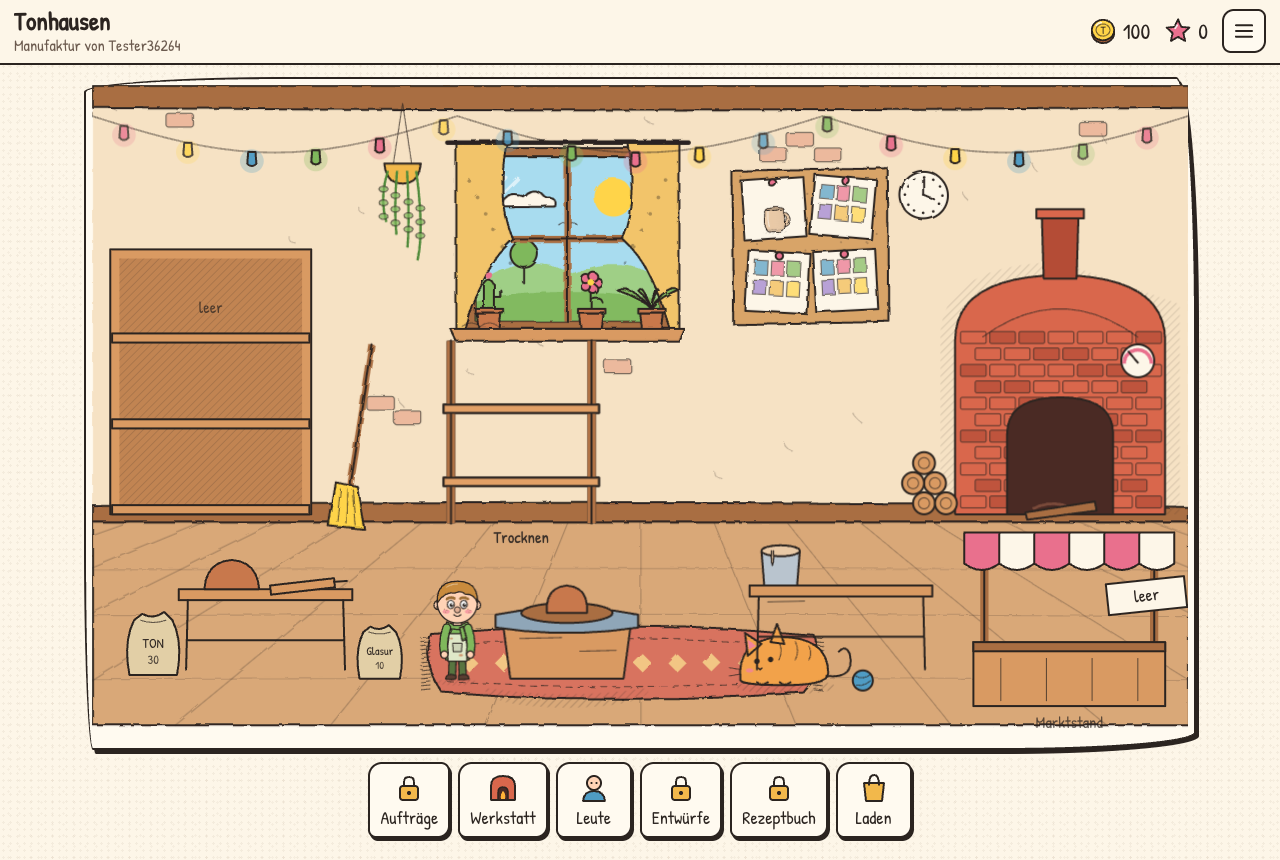
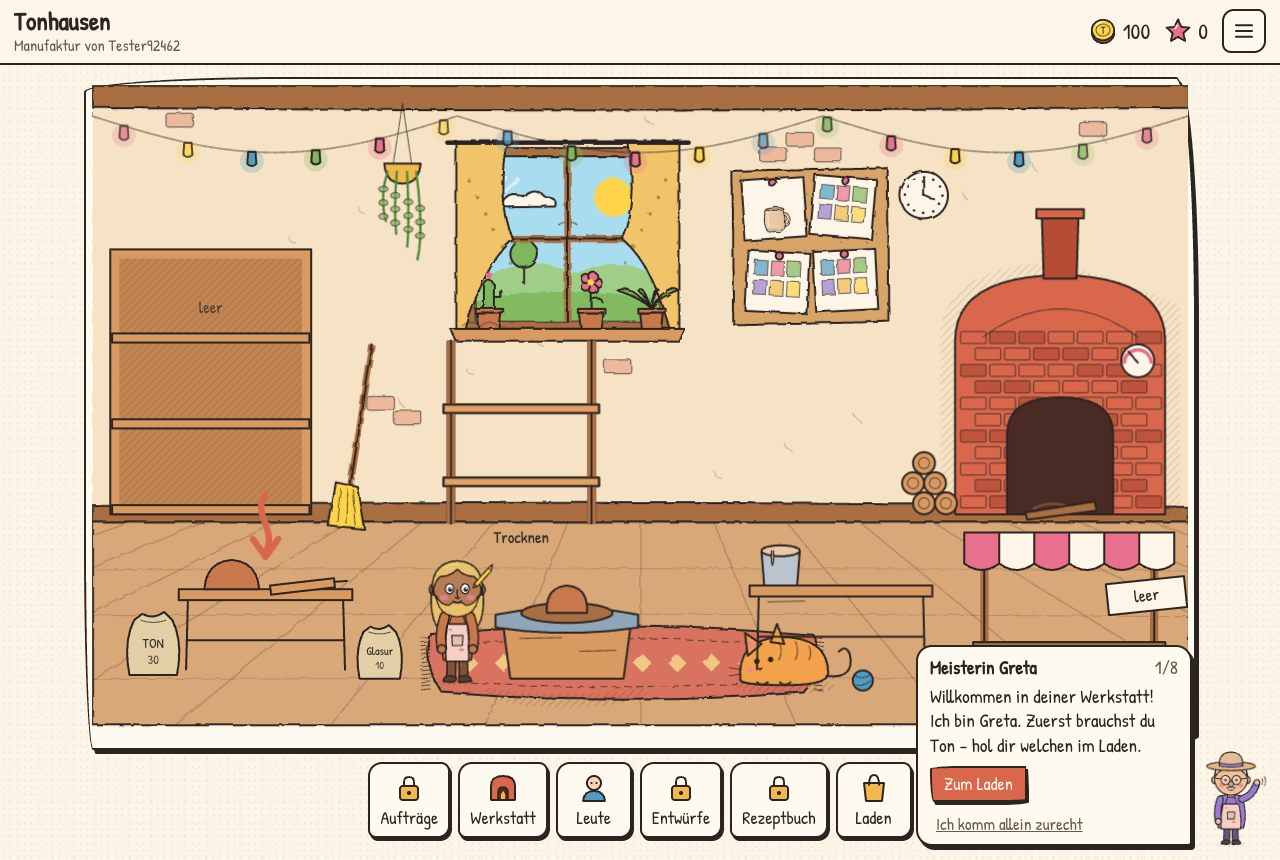
feat(client): onboarding mentor, away summary, unlock celebrations

diff --git a/src/client/panels/Onboarding.tsx b/src/client/panels/Onboarding.tsx
@@ -1,0 +1,55 @@
+import { makeCharacter, type CharacterLook } from '../../shared/character';
+import type { GameState, StationKind } from '../../shared/types';
+import { Character } from '../art/character/Character';
+import { Button } from '../ui/Button';
+import type { PanelId } from './PanelHost';
+
+export const GRETA: CharacterLook = { ...makeCharacter(1902), quirk: 'bigHat', eyes: 'glasses', hairStyle: 'bun', hairColor: '#d9d4cc', facial: 'freckles', mouth: 'grin', body: 'round', heightMul: 0.95, outfit: '#9a7ccf' };
+
+type Step = { text: string; done: (s: GameState) => boolean; target?: StationKind; panel?: PanelId; panelArg?: (s: GameState) => string | undefined; button?: string };
+
+const anyBatchAt = (s: GameState, stages: string[]) => s.batches.some((b) => stages.includes(b.stage));
+
+export const ONBOARDING: Step[] = [
+  { text: 'Willkommen in deiner Werkstatt! Ich bin Greta. Zuerst brauchst du Ton – hol dir welchen im Laden.', target: 'prepBench', panel: 'shop', button: 'Zum Laden',
+    done: (s) => (s.materials.ton ?? 0) > 30 || s.stats.made > 0 || s.batches.length > 0 },
+  { text: 'Jetzt an die Scheibe! Tipp auf die Töpferscheibe und wähle deinen ersten Becher.', target: 'wheel', panel: 'station', panelArg: (s) => s.stations.find((x) => x.kind === 'wheel')?.id, button: 'Zur Scheibe',
+    done: (s) => s.batches.length > 0 || s.stats.made > 0 },
+  { text: 'Wunderbar! Nach dem Trocknen geht’s ab in den Ofen. Schau ruhig zu, wie es glüht.', target: 'kiln',
+    done: (s) => anyBatchAt(s, ['bisque', 'glaze', 'glazeFire']) || s.stats.made > 0 },
+  { text: 'Jetzt bekommen deine Stücke Farbe am Glasurtisch – und dann noch einmal in den Ofen.', target: 'glazeTable',
+    done: (s) => anyBatchAt(s, ['glazeFire']) || s.stats.made > 0 },
+  { text: 'Fertig! Dein Marktstand verkauft die Becher ganz von allein – auch wenn du nicht da bist.', target: 'marketStall',
+    done: (s) => s.stats.sold > 0 },
+  { text: 'Die Leute im Dorf haben von dir gehört! Schau ins Auftragsbrett und liefere deinen ersten Auftrag.', panel: 'orders', button: 'Aufträge ansehen',
+    done: (s) => s.stats.ordersDone > 0 },
+  { text: 'Jetzt wird’s persönlich: Gestalte im Entwurfsstudio deinen ganz eigenen Becher.', panel: 'studio', button: 'Zum Studio',
+    done: (s) => s.stats.designsSaved > 0 },
+  { text: 'Zum Schluss ein Geheimnis: Probier eine eigene Glasur! Brenne eine Probekachel im Studio.', panel: 'studio', panelArg: () => 'glaze', button: 'Glasurversuch',
+    done: (s) => s.stats.experiments > 0 },
+];
+
+/** Index of the first unfinished step (ONBOARDING.length when done). */
+export function onboardingStep(s: GameState): number {
+  const i = ONBOARDING.findIndex((st) => !st.done(s));
+  return i < 0 ? ONBOARDING.length : i;
+}
+
+export function OnboardingCard({ s, onOpen, onSkip }: { s: GameState; onOpen: (id: PanelId, arg?: string) => void; onSkip: () => void }) {
+  const i = onboardingStep(s);
+  if (i >= ONBOARDING.length) return null;
+  const step = ONBOARDING[i];
+  return (
+    <aside class="mentor" aria-live="polite">
+      <Character look={GRETA} pose={i === 0 ? 'wave' : 'idle'} seed={7} size={70} wobble={false} />
+      <div class="mentor-bubble">
+        <div class="mentor-head"><strong>Meisterin Greta</strong><span class="muted">{i + 1}/{ONBOARDING.length}</span></div>
+        <p>{step.text}</p>
+        <div class="row">
+          {step.panel && <Button small variant="primary" onClick={() => onOpen(step.panel!, step.panelArg?.(s))}>{step.button}</Button>}
+          <button class="link" onClick={onSkip}>Ich komm allein zurecht</button>
+        </div>
+      </div>
+    </aside>
+  );
+}

diff --git a/src/client/screens/GameScreen.tsx b/src/client/screens/GameScreen.tsx
@@ -1,7 +1,7 @@
 import { useState } from 'preact/hooks';
 import { WorkshopScene } from '../art/workshop/WorkshopScene';
 import { api } from '../api';
-import { me, now, view } from '../store';
+import { dispatch, me, now, serverState, view } from '../store';
 import { T } from '../strings';
 import { Counter } from '../ui/Counter';
 import { Icon } from '../ui/Icons';
@@ -10,6 +10,9 @@ import { Sheet } from '../ui/Sheet';
 import { Button } from '../ui/Button';
 import { inviteLink } from './AuthScreen';
 import { PanelHost, type PanelId, panelUnlock } from '../panels/PanelHost';
+import { AwaySummary } from '../panels/AwaySummary';
+import { Celebration } from '../panels/Celebration';
+import { ONBOARDING, OnboardingCard, onboardingStep } from '../panels/Onboarding';
 import './screens.css';
 
 const TOOLS: { id: PanelId; icon: Parameters<typeof Icon>[0]['name'] }[] = [
@@ -21,7 +24,12 @@ export function GameScreen({ onLogout }: { onLogout: () => void }) {
   const s = view.value;
   const [panel, setPanel] = useState<{ id: PanelId; arg?: string } | null>(initialPanel());
   const [menu, setMenu] = useState(false);
+  const [awayAtLoad, setAwayAtLoad] = useState(() => serverState.value?.away ?? null);
+  const [skipTutorial, setSkipTutorial] = useState(() => { try { return localStorage.getItem('mf_skip_tutorial') === '1'; } catch { return false; } });
   if (!s) return <div class="loading">{T.loading}</div>;
+  const pendingMilestone = s.milestonesDone.find((m) => !s.milestonesAcked.includes(m));
+  const step = onboardingStep(s);
+  const highlight = !skipTutorial && step < ONBOARDING.length && !panel ? ONBOARDING[step].target : undefined;
   const open = (id: PanelId, arg?: string) => setPanel({ id, arg });
   return (
     <div class="game">
@@ -36,7 +44,7 @@ export function GameScreen({ onLogout }: { onLogout: () => void }) {
       </header>
       <div class="scene-frame">
         <Paper seed={21}>
-          <WorkshopScene state={s} now={now.value} onStation={(id) => open('station', id)} onWorker={(id) => open('people', id)} />
+          <WorkshopScene state={s} now={now.value} onStation={(id) => open('station', id)} onWorker={(id) => open('people', id)} highlight={highlight} />
         </Paper>
       </div>
       <nav class="toolbar" aria-label="Werkzeuge">
@@ -54,6 +62,11 @@ export function GameScreen({ onLogout }: { onLogout: () => void }) {
         })}
       </nav>
       {panel && <PanelHost id={panel.id} arg={panel.arg} onClose={() => setPanel(null)} onOpen={open} />}
+      {!skipTutorial && !panel && !awayAtLoad && !pendingMilestone && (
+        <OnboardingCard s={s} onOpen={open} onSkip={() => { try { localStorage.setItem('mf_skip_tutorial', '1'); } catch { /* ignore */ } setSkipTutorial(true); }} />
+      )}
+      {awayAtLoad && <AwaySummary away={awayAtLoad} boosted={now.value < s.boostUntil} now={s.lastTick} onClose={() => { setAwayAtLoad(null); if (s.away) dispatch({ type: 'ackAway' }); }} />}
+      {!awayAtLoad && pendingMilestone && <Celebration milestoneId={pendingMilestone} onClose={() => dispatch({ type: 'ackMilestone', id: pendingMilestone })} />}
       {menu && (
         <Sheet title={T.village} onClose={() => setMenu(false)}>
           <p>Einladungscode für <strong>{me.value?.villageName}</strong>:</p>

diff --git a/src/client/art/workshop/WorkshopScene.tsx b/src/client/art/workshop/WorkshopScene.tsx
@@ -31,7 +31,7 @@ const WORKER_SPOT: Partial<Record<StationKind, { dx: number; dy: number; behind:
 };
 const IDLE_SPOTS = [{ x: 640, y: 712 }, { x: 900, y: 712 }, { x: 340, y: 712 }];
 
-type Props = { state: GameState; now: number; onStation: (id: string) => void; onWorker: (id: string) => void };
+type Props = { state: GameState; now: number; onStation: (id: string) => void; onWorker: (id: string) => void; highlight?: StationKind };
 
 function Person({ w, x, y, pose, onWorker, i }: { w: Worker; x: number; y: number; pose: Pose; onWorker: (id: string) => void; i: number }) {
   const size = 100;
@@ -43,7 +43,7 @@ function Person({ w, x, y, pose, onWorker, i }: { w: Worker; x: number; y: numbe
   );
 }
 
-export function WorkshopScene({ state, now, onStation, onWorker }: Props) {
+export function WorkshopScene({ state, now, onStation, onWorker, highlight }: Props) {
   const room2 = state.unlocks.includes('room2');
   const width = room2 ? 1800 : 1200;
   const pins = state.designs.slice(-4).reverse().map((design) => ({ design, glaze: state.glazes.find((g) => g.id === design.glazeId) }));
@@ -76,6 +76,19 @@ export function WorkshopScene({ state, now, onStation, onWorker }: Props) {
           );
         })}
         {idle.map((w, i) => <Person w={w} i={i} x={IDLE_SPOTS[i % 3].x + Math.floor(i / 3) * 40} y={IDLE_SPOTS[i % 3].y} pose="sleep" onWorker={onWorker} />)}
+        {highlight && (() => {
+          const st = state.stations.find((x) => x.kind === highlight);
+          if (!st) return null;
+          const p = SLOTS[st.slot];
+          const top = { kiln: 230, shelf: 300, dryingRack: 220, marketStall: 220, wheel: 190, prepBench: 120, glazeTable: 120 }[highlight];
+          const x = p.x, y = p.y - top;
+          return (
+            <g class="hint-arrow">
+              <path d={`M${x} ${y - 70} C${x - 16} ${y - 50} ${x + 14} ${y - 30} ${x} ${y - 8}`} fill="none" stroke="var(--kiln)" stroke-width="7" stroke-linecap="round" />
+              <path d={`M${x - 14} ${y - 22} L${x} ${y - 2} L${x + 14} ${y - 22}`} fill="none" stroke="var(--kiln)" stroke-width="7" stroke-linecap="round" stroke-linejoin="round" />
+            </g>
+          );
+        })()}
         {now < state.boostUntil && (
           <g class="boost-banner">
             <rect x={width / 2 - 170} y="34" width="340" height="44" rx="10" fill="var(--sun)" stroke="var(--line)" stroke-width="2.2" />

diff --git a/src/client/panels/panels.css b/src/client/panels/panels.css
@@ -60,3 +60,22 @@ select.pick { border: 2px solid var(--line); border-radius: 10px; padding: 6px 8
   .sheet:has(.studio) { width: 760px; }
   .studio { grid-template-columns: 300px 1fr; }
 }
+.mentor { position: fixed; right: 14px; bottom: 14px; z-index: 35; display: flex; align-items: flex-end; gap: 4px; max-width: min(350px, calc(100vw - 28px)); flex-direction: row-reverse; animation: pop-in .4s ease-out; }
+.mentor-bubble { background: var(--card); border: 2.2px solid var(--line); box-shadow: var(--shadow); border-radius: 16px 16px 4px 16px; padding: 8px 12px; }
+.mentor-bubble p { margin: 4px 0 8px; }
+.mentor-head { display: flex; justify-content: space-between; gap: 8px; }
+.link { background: none; border: none; text-decoration: underline; cursor: pointer; color: var(--ink-soft); font-size: .9em; }
+@media (max-width: 899px) { .mentor { bottom: 86px; left: 8px; right: 8px; } .mentor-bubble { font-size: .92em; } }
+.modal-backdrop { position: fixed; inset: 0; z-index: 70; background: rgba(43,36,32,.35); display: grid; place-items: center; padding: 16px; animation: fade .2s; }
+.modal-card { width: min(440px, 100%); animation: pop-in .45s ease-out; }
+.away-list { list-style: none; padding: 0; margin: 10px 0; font-size: 1.1em; }
+.away-list li { margin: 6px 0; }
+.inline-icon svg { width: 22px; height: 22px; vertical-align: middle; }
+.boost-note { background: var(--sun); border: 2px solid var(--line); border-radius: 10px; padding: 6px 10px; }
+.celebrate { text-align: center; }
+.kicker { font-size: 1.4em; color: var(--kiln); margin: 0; transform: rotate(-3deg); }
+.unlock-line { background: #fff; border: 2px dashed rgba(43,36,32,.3); border-radius: 12px; padding: 8px; margin: 8px 0 14px; }
+.confetti { position: fixed; inset: 0; pointer-events: none; overflow: hidden; }
+.confetti i { position: absolute; top: -20px; width: 10px; height: 8px; border-radius: 40% 60% 50% 50%; border: 1.4px solid var(--line); animation: crumb 2.4s ease-in forwards; }
+@keyframes crumb { to { transform: translateY(105vh) rotate(540deg); } }
+.scene .hint-arrow { animation: bob 0.9s ease-in-out infinite; pointer-events: none; }

diff --git a/test/client/onboarding.test.tsx b/test/client/onboarding.test.tsx
@@ -1,0 +1,38 @@
+import { render } from 'preact-render-to-string';
+import { describe, expect, it } from 'vitest';
+import { AwaySummary } from '../../src/client/panels/AwaySummary';
+import { onboardingStep, ONBOARDING } from '../../src/client/panels/Onboarding';
+import { applyAction } from '../../src/shared/actions';
+import { newGame } from '../../src/shared/state';
+
+const T0 = 1_800_000_000_000;
+
+describe('onboarding', () => {
+  it('moves from step 1 to step 2 after buying clay', () => {
+    const s = newGame('p', 1, T0);
+    expect(onboardingStep(s)).toBe(0);
+    const r = applyAction(s, { type: 'buyMaterial', material: 'ton', amount: 10 }, T0 + 1);
+    expect(r.ok && onboardingStep(r.state)).toBe(1);
+  });
+  it('has eight steps, all in German', () => {
+    expect(ONBOARDING).toHaveLength(8);
+    for (const st of ONBOARDING) expect(st.text.length).toBeGreaterThan(15);
+  });
+  it('is finished once everything has been tried', () => {
+    const s = newGame('p', 1, T0);
+    Object.assign(s.stats, { made: 6, sold: 1, ordersDone: 1, designsSaved: 1, experiments: 1 });
+    s.materials.ton = 40;
+    expect(onboardingStep(s)).toBe(ONBOARDING.length);
+  });
+});
+
+describe('away summary', () => {
+  it('renders what happened while away and the boost line', () => {
+    const html = render(<AwaySummary away={{ since: T0, made: 42, sold: 30, talerEarned: 123.5, discoveries: [] }} boosted onClose={() => {}} />);
+    expect(html).toContain('Während du weg warst');
+    expect(html).toContain('42');
+    expect(html).toContain('30');
+    expect(html).toContain('123');
+    expect(html).toContain('doppeltes Tempo');
+  });
+});

diff --git a/src/client/panels/AwaySummary.tsx b/src/client/panels/AwaySummary.tsx
@@ -1,0 +1,32 @@
+import type { AwayLog } from '../../shared/types';
+import { EFFECTS } from '../../shared/content';
+import { Button } from '../ui/Button';
+import { CoinIcon } from '../ui/Counter';
+import { Paper } from '../ui/Paper';
+import { GRETA } from './Onboarding';
+import { Character } from '../art/character/Character';
+import { formatDuration } from './logic';
+
+export function AwaySummary({ away, boosted, onClose, now }: { away: AwayLog; boosted: boolean; onClose: () => void; now?: number }) {
+  return (
+    <div class="modal-backdrop">
+      <Paper tape seed={31} class="modal-card">
+        <div class="card-row">
+          <Character look={GRETA} pose="wave" seed={3} size={64} wobble={false} />
+          <div class="grow">
+            <h2>Während du weg warst …</h2>
+            {now !== undefined && <p class="muted">({formatDuration(now - away.since)})</p>}
+          </div>
+        </div>
+        <ul class="away-list">
+          <li>🏺 <strong>{away.made}</strong> Stücke sind fertig geworden</li>
+          <li>🛒 <strong>{away.sold}</strong> Stücke hat der Marktstand verkauft</li>
+          <li><span class="inline-icon"><CoinIcon /></span> <strong>{Math.round(away.talerEarned)}</strong> Taler verdient</li>
+          {away.discoveries.map((d) => <li>✦ Entdeckt: {EFFECTS[d]?.name ?? d}</li>)}
+        </ul>
+        {boosted && <p class="boost-note">Willkommen zurück – doppeltes Tempo für 30 Minuten!</p>}
+        <Button variant="primary" onClick={onClose}>Weiter töpfern</Button>
+      </Paper>
+    </div>
+  );
+}

diff --git a/src/client/panels/Celebration.tsx b/src/client/panels/Celebration.tsx
@@ -1,0 +1,22 @@
+import { getUnlock } from '../../shared/content';
+import { MILESTONES } from '../../shared/progression';
+import { Button } from '../ui/Button';
+import { Paper } from '../ui/Paper';
+
+export function Celebration({ milestoneId, onClose }: { milestoneId: string; onClose: () => void }) {
+  const m = MILESTONES.find((x) => x.id === milestoneId);
+  if (!m) return null;
+  return (
+    <div class="modal-backdrop">
+      <div class="confetti" aria-hidden="true">{Array.from({ length: 18 }, (_, i) => <i style={{ left: `${(i * 37) % 100}%`, animationDelay: `${(i % 6) * 0.12}s`, background: ['#c8784c', '#dcc2a6', '#a85e38', '#f2b84b'][i % 4] }} />)}</div>
+      <Paper tape seed={44} class="modal-card celebrate">
+        <p class="kicker">Freigeschaltet!</p>
+        <h2>{m.text}</h2>
+        {m.unlocks.map((u) => (
+          <div class="unlock-line"><strong>{getUnlock(u).title}</strong><br /><span class="muted">{getUnlock(u).text}</span></div>
+        ))}
+        <Button variant="primary" onClick={onClose}>Juhu!</Button>
+      </Paper>
+    </div>
+  );
+}
